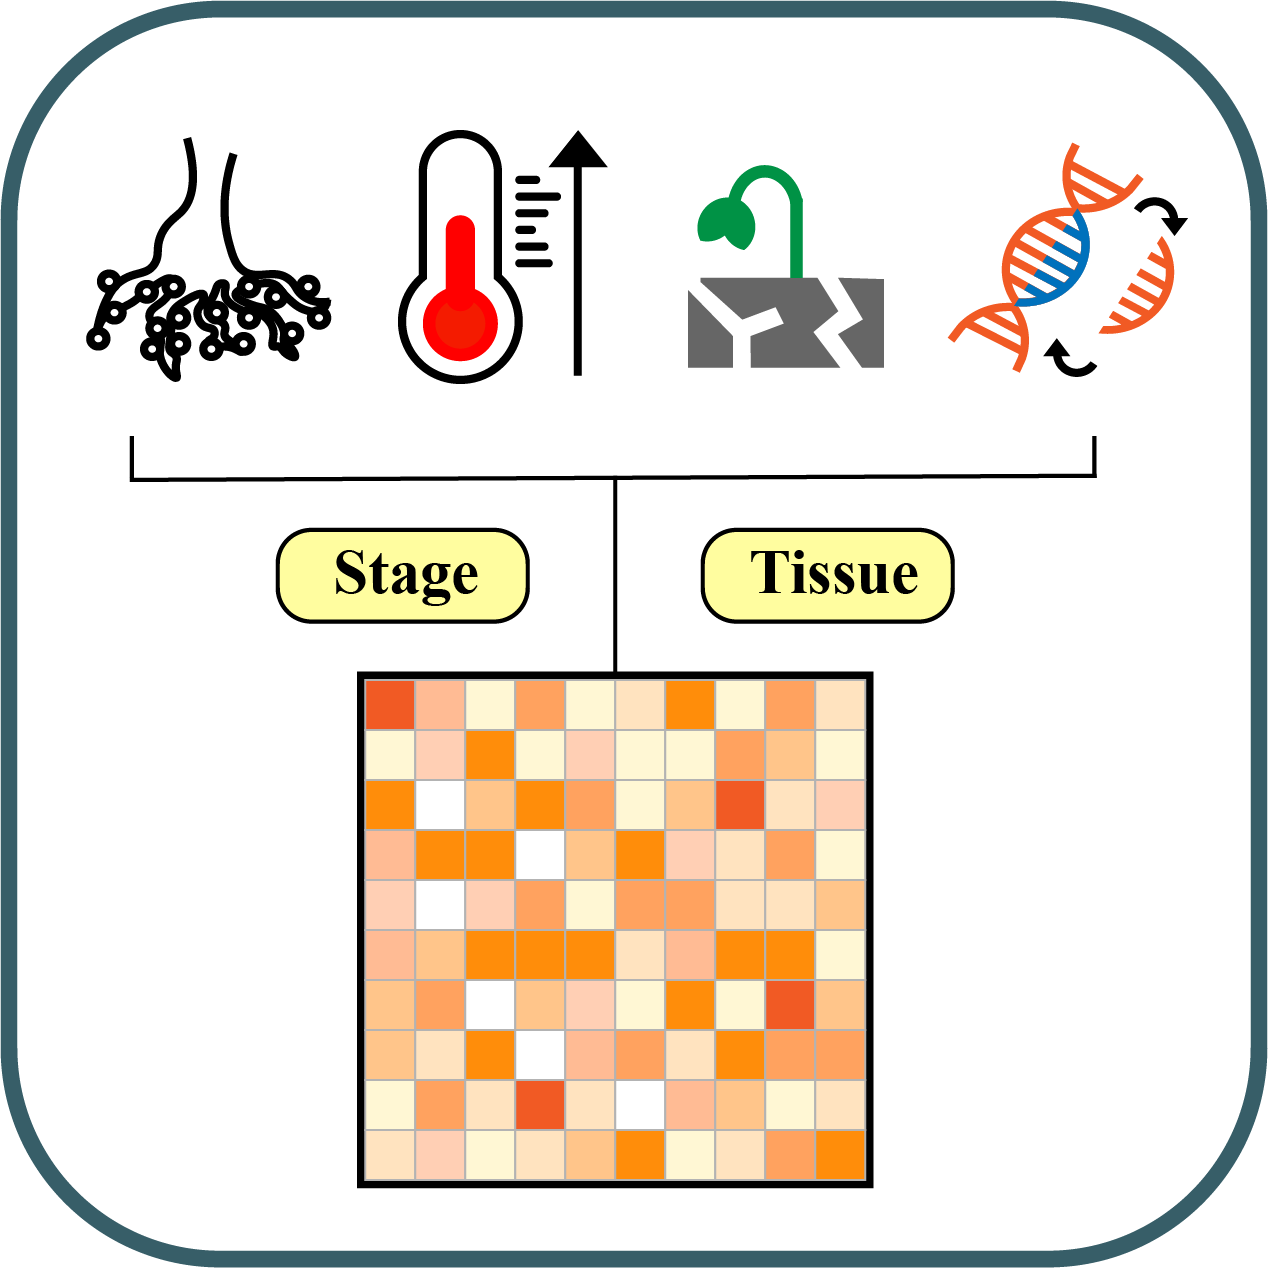
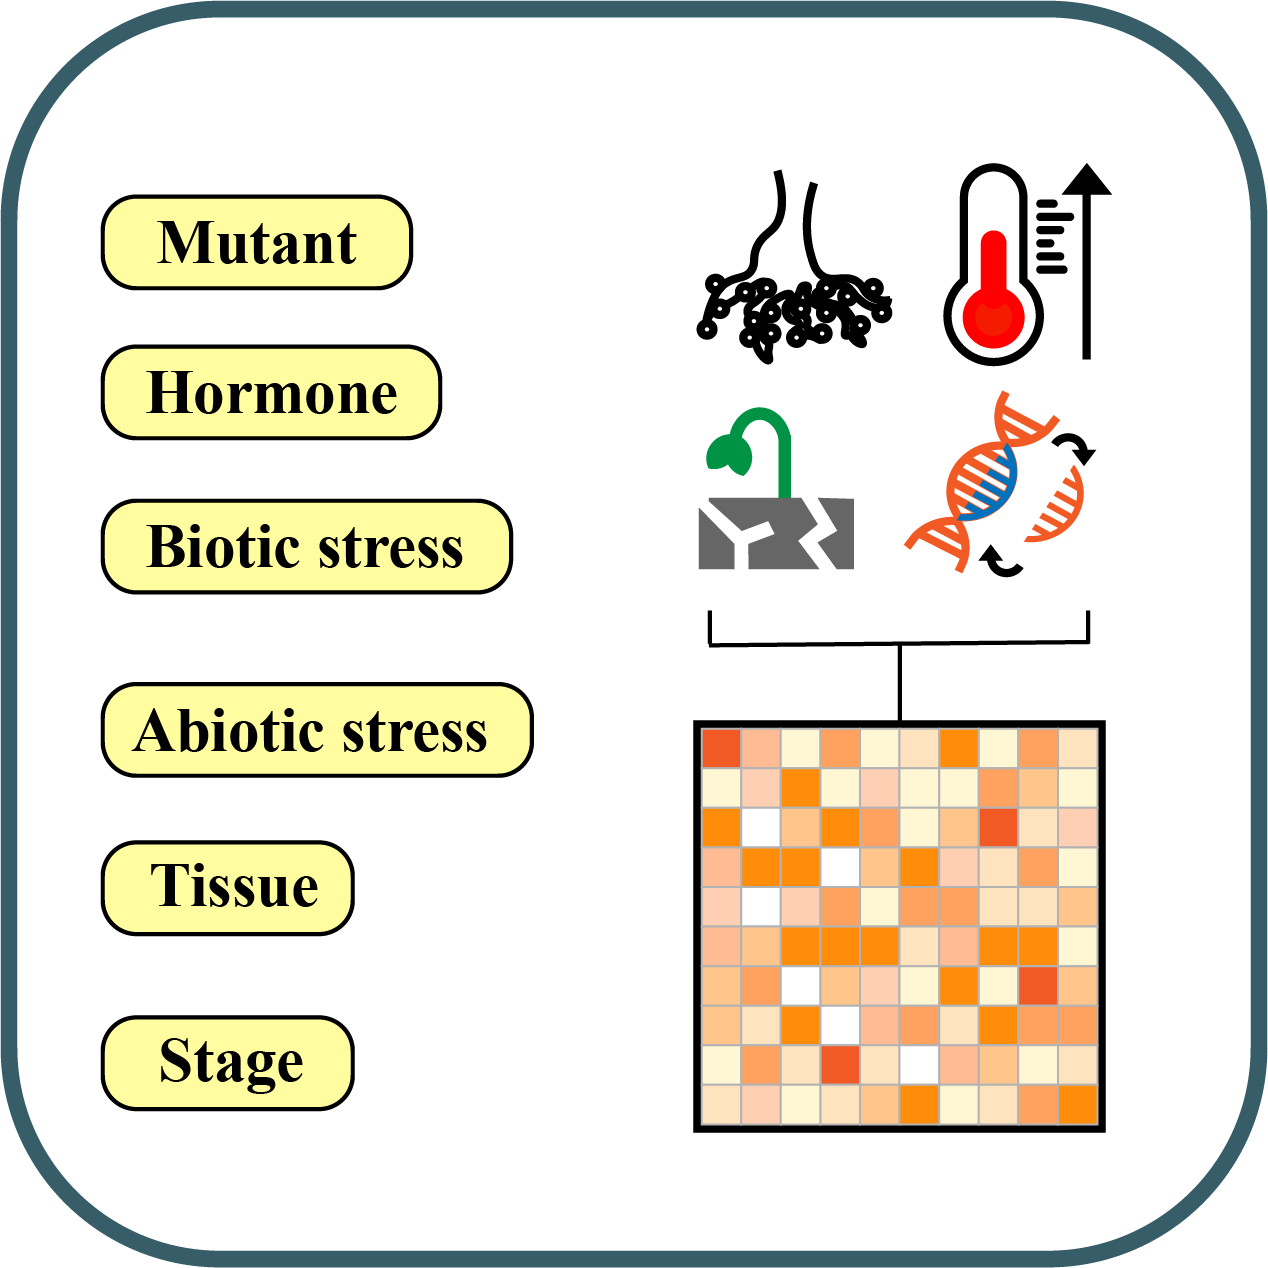
expression search共多加六項

diff --git a/0002_LncRNADB/home.md b/0002_LncRNADB/home.md
@@ -20,11 +20,11 @@
 
 ### Results
 
-Version I
+#### Version I
 
 ![home_review_1](picture/Version1/home_overview.png)
 
-Version II
+#### Version II
 
 - 底圖更換成白底與#0C5D69邊框
 - Gene search的勾勾更換
@@ -34,4 +34,4 @@ Version II
 - 背景更改為透明
 - 去邊框
 
-![home_overview_2.1](picture/Version2/home_overview_2.1.png)
+![home_overview_2_t](picture/Version2/home_overview_2_t.png)

diff --git a/0002_LncRNADB/work_progression.md b/0002_LncRNADB/work_progression.md
@@ -35,7 +35,7 @@ drafts realization
 
 ## 2021.04.23 Fri.
 
-- [ ] expression search的stage和tissue再多增加六個項目
+- [x] expression search的stage和tissue再多增加六個項目
 
 增加六個物種的icons
 
